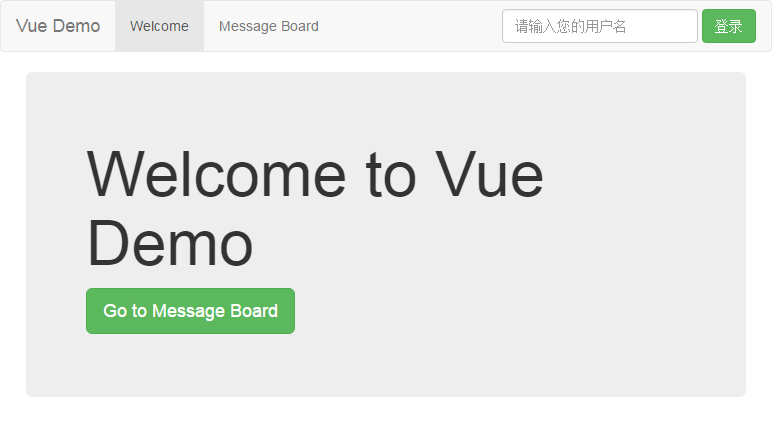
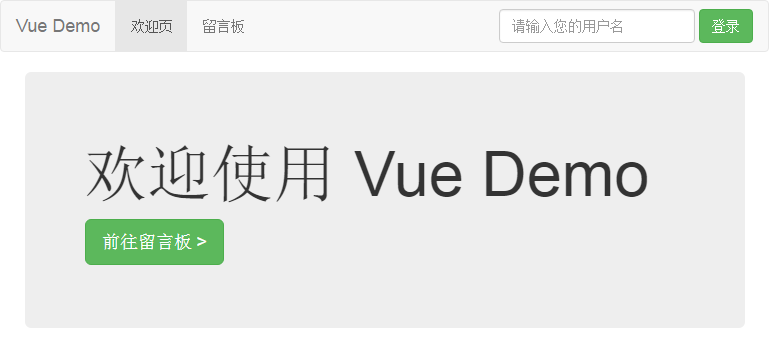
change Eng to CN

Changed region(s): [[0.0936, 0.3448, 0.8427, 0.8046], [0.6554, 0.0, 0.9987, 0.1437], [0.0, 0.0287, 0.4057, 0.1149]]

diff --git a/src/components/navbar/index.vue b/src/components/navbar/index.vue
@@ -23,12 +23,12 @@
           <ul class="nav navbar-nav">
             <li :class="{ 'active': $route.path === '/' }">
               <a v-link="'/'">
-                Welcome
+                欢迎页
               </a>
             </li>
             <li :class="{ 'active': $route.path.startsWith('/msg') }">
               <a v-link="'/msg'">
-                Message Board
+                留言板
               </a>
             </li>
           </ul>

diff --git a/src/views/welcome.vue b/src/views/welcome.vue
@@ -1,13 +1,13 @@
 <template>
 
   <div class="jumbotron">
-    <h1>Welcome to Vue Demo</h1>
+    <h1>欢迎使用 Vue Demo</h1>
     <p>
       <a
         role="button"
         class="btn btn-success btn-lg"
         v-link="'/msg'">
-        Go to Message Board
+        前往留言板 &gt;
       </a>
     </p>
   </div>

diff --git a/src/views/msg.vue b/src/views/msg.vue
@@ -6,7 +6,7 @@
     class="btn btn-default btn-lg btn-block"
     v-link="{ name: 'addMsg' }"
     v-show="!$route.path.startsWith('/msg/add')">
-    New Message
+    添加消息
     <span class="glyphicon glyphicon-plus"></span>
   </a>
 

diff --git a/src/components/Msg/MsgList/msg-list.html b/src/components/Msg/MsgList/msg-list.html
@@ -54,7 +54,7 @@
         class="btn btn-info"
         v-link="{ name: 'detailMsg', params: { msgId: msg.id } }"
         @click.stop>
-        详情
+        查看详情
       </a>
     </opt-btn-group>
   </li>
